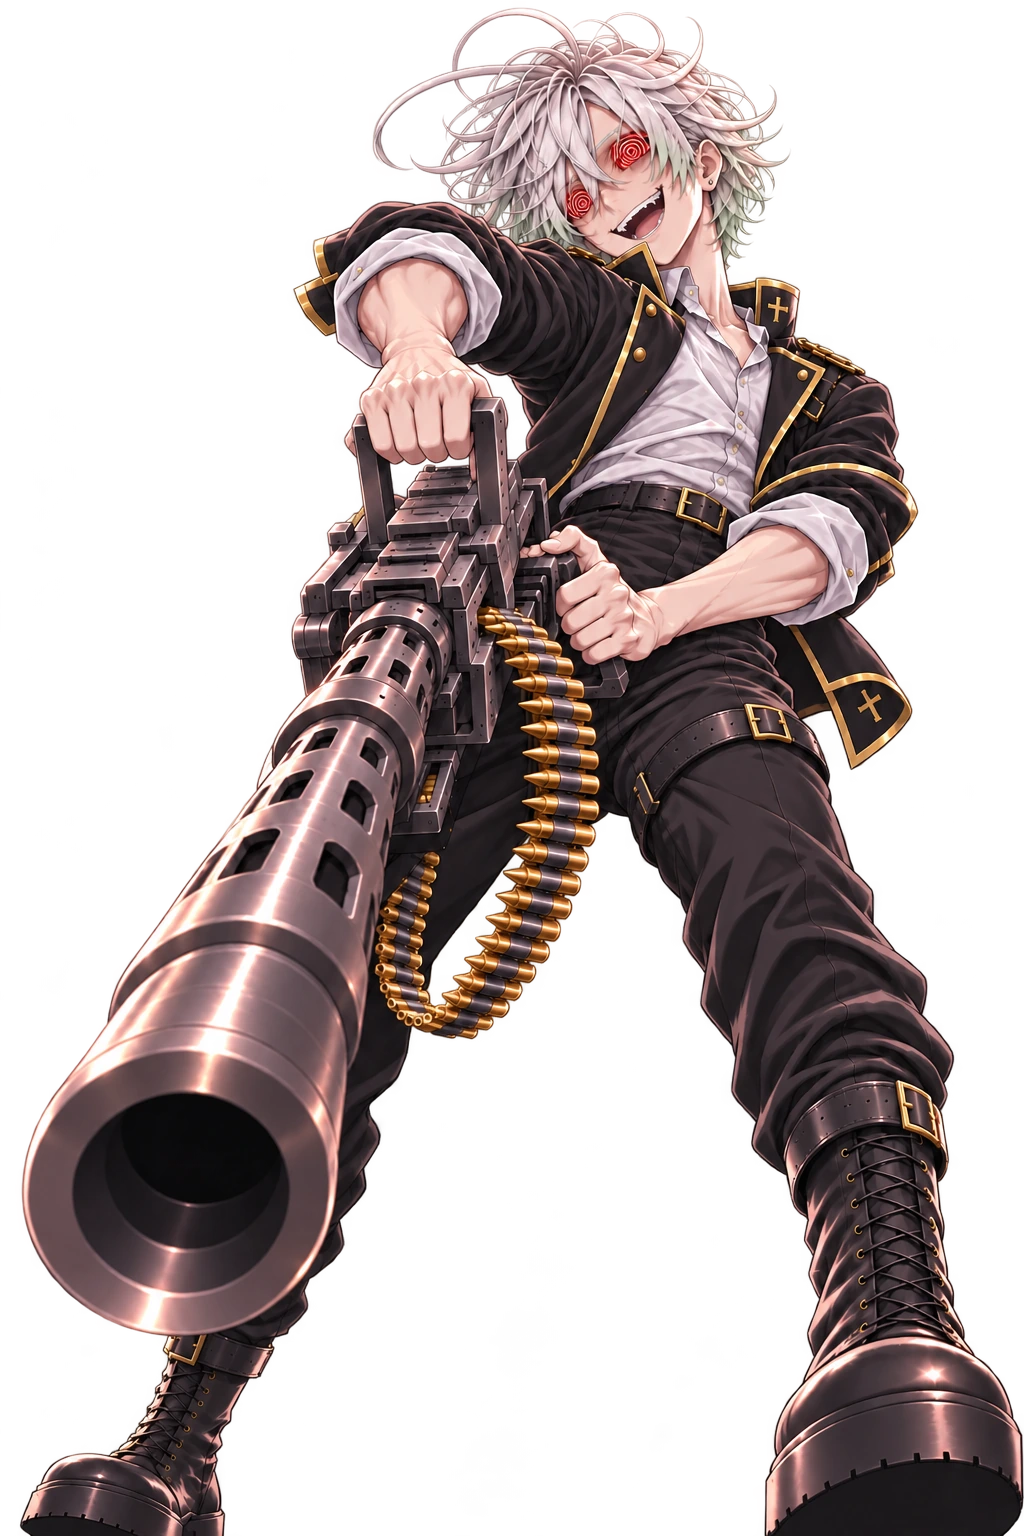
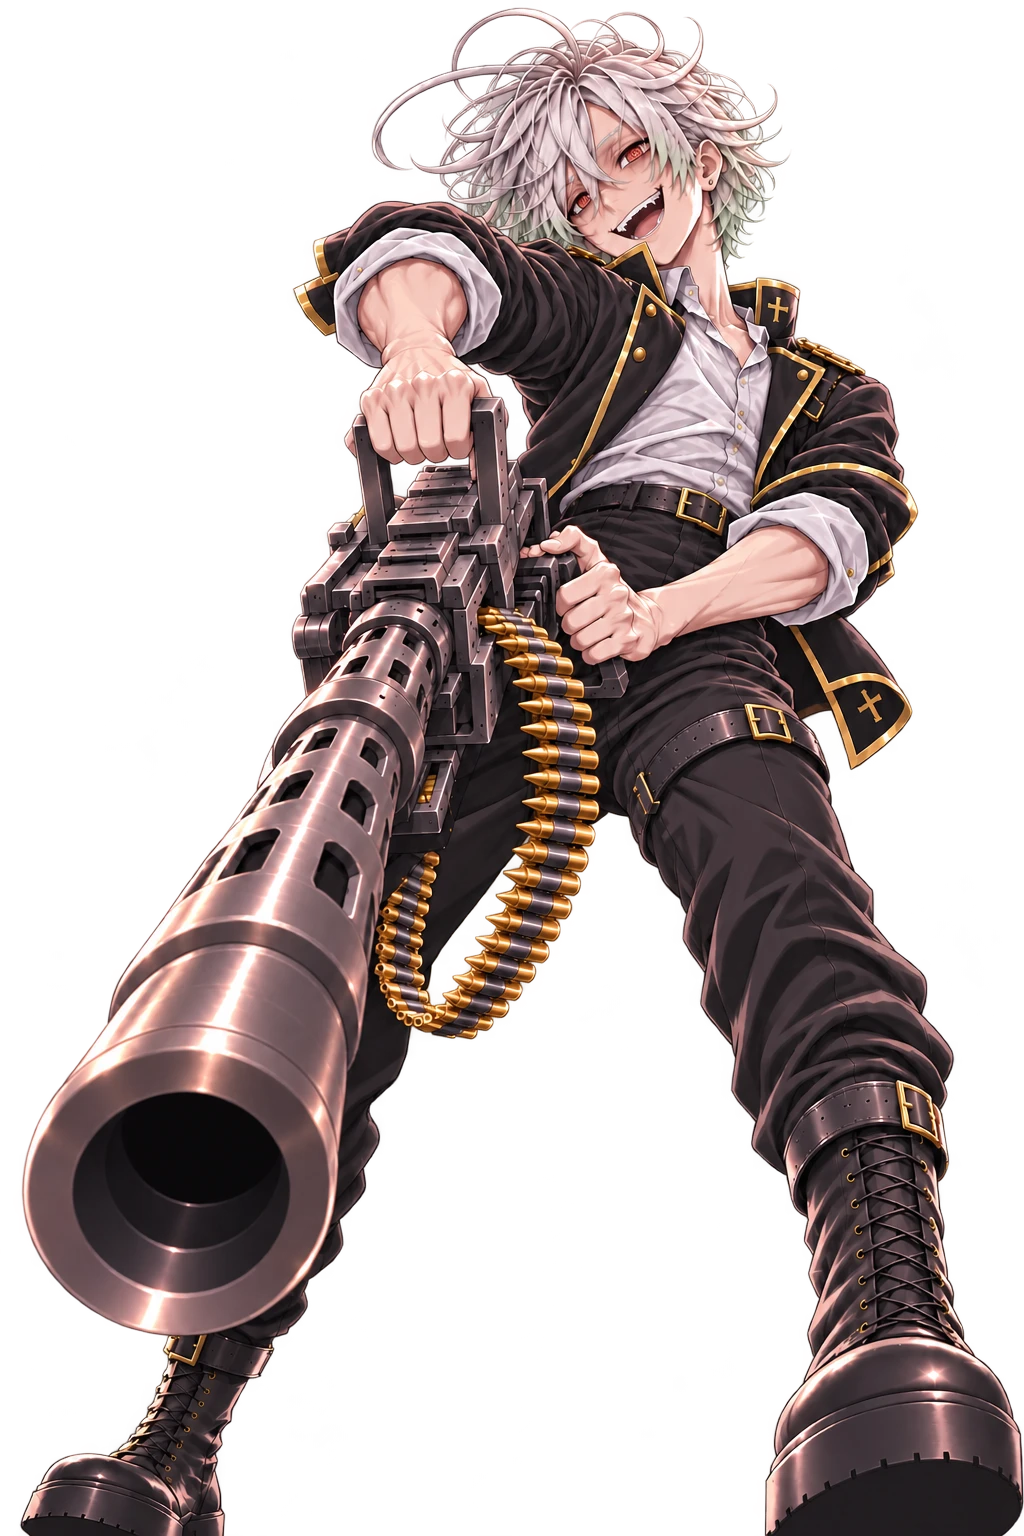
美術：051 尼莫彈幕支援改交 Ray 選的兩張（A Ray 修版／B 橫幅架砲），alpha

diff --git a/HANDOFF.md b/HANDOFF.md
@@ -112,7 +112,7 @@
 |---|---|
 | 守城戰戰鬥背景 57 張（82 格，黃昏） | ✔ 不欠 —— Ray 定單張黃昏 |
 | 守城戰 (2,3) 市政廳街2段 | ⚠ 欠 1 張（-2325 碼頭移走後變普通街，工單 `winsmoor_siege/_worklist.md` #20） |
-| 西泊米夏戰後（-2335） | ✔ -2360 定稿（Ray 點頭）：米夏 `抓臉`（咬牙）／`抓臉閉嘴`／`暴走`（符文法環＋紫黑火焰之翼，方形 1254²）—— 檔名仍是 misha_si_coverface／coverfaceshut／coverfaceni，front 為底、右持畜生道長刀、長鞘掛左；`抓臉閉嘴` 還沒放進任何一句。✔ -2346 交：索 exhaust、安 shout、尼莫出場插圖 050_nemoentrance。⚠ 欠：夢魘米夏戰的**敵人圖**單翼版（現在借 NI 金色那張）／主角與尼莫背靠背插圖（現在空一拍）／尼莫的被動 CI（彈雨風暴，Ray 說插圖已有、之後補）、主動 CI（彈幕支援）—— ✔ 2026-11-03 美術交：動畫首尾兩格 `resources/illustration/051_nemobarrage_a.webp`（A：單手提槍、槍口正對鏡頭、張嘴狂笑、紅色圈圈眼）／`051_nemobarrage_b.webp`（B：架槍、槍口微朝左上、閉齒笑、眼睛看向槍口），兩張都是 alpha、1024×1536、鏡頭與站位對齊，**還沒做 Wan 動畫、還沒接進程式**—— 尼莫三招 -2336/-2337 已照卡實作（戰犬圍獵／彈雨風暴／彈幕支援），變身 CI 暫用 `nemo_ci_dual`、沒有語音 |
+| 西泊米夏戰後（-2335） | ✔ -2360 定稿（Ray 點頭）：米夏 `抓臉`（咬牙）／`抓臉閉嘴`／`暴走`（符文法環＋紫黑火焰之翼，方形 1254²）—— 檔名仍是 misha_si_coverface／coverfaceshut／coverfaceni，front 為底、右持畜生道長刀、長鞘掛左；`抓臉閉嘴` 還沒放進任何一句。✔ -2346 交：索 exhaust、安 shout、尼莫出場插圖 050_nemoentrance。⚠ 欠：夢魘米夏戰的**敵人圖**單翼版（現在借 NI 金色那張）／主角與尼莫背靠背插圖（現在空一拍）／尼莫的被動 CI（彈雨風暴，Ray 說插圖已有、之後補）、主動 CI（彈幕支援）—— ✔ 2026-11-03 美術交：動畫首尾兩格 `resources/illustration/051_nemobarrage_a.webp`（A：單手提槍、槍口正對鏡頭、張嘴狂笑）／`051_nemobarrage_b.webp`（B：**橫幅 1536×1024**，機甲架砲式：雙腳大張壓低、槍橫跨畫面朝左上、外套後掀、閉齒笑）；A 是 Ray 自己修的版（正常紅眼、1024×1536）。兩張都是 alpha。⚠ **兩張比例不同、構圖也不連續**，Ray：「中間要很多 KF，不然槍會變形」—— 中間關鍵格還沒畫；**還沒做 Wan 動畫、還沒接進程式**—— 尼莫三招 -2336/-2337 已照卡實作（戰犬圍獵／彈雨風暴／彈幕支援），變身 CI 暫用 `nemo_ci_dual`、沒有語音 |
 | 孤舟島日景 13 張 | ✔ 不欠 |
 | 孤舟島 gunsmith／canteen／store 時段差分 | ✔ 不欠 —— 店舖只有 day（憲法 §5） |
 | 孤舟島 wild／inn 時段差分 | ⚠ 欠 4 張（見上） |
